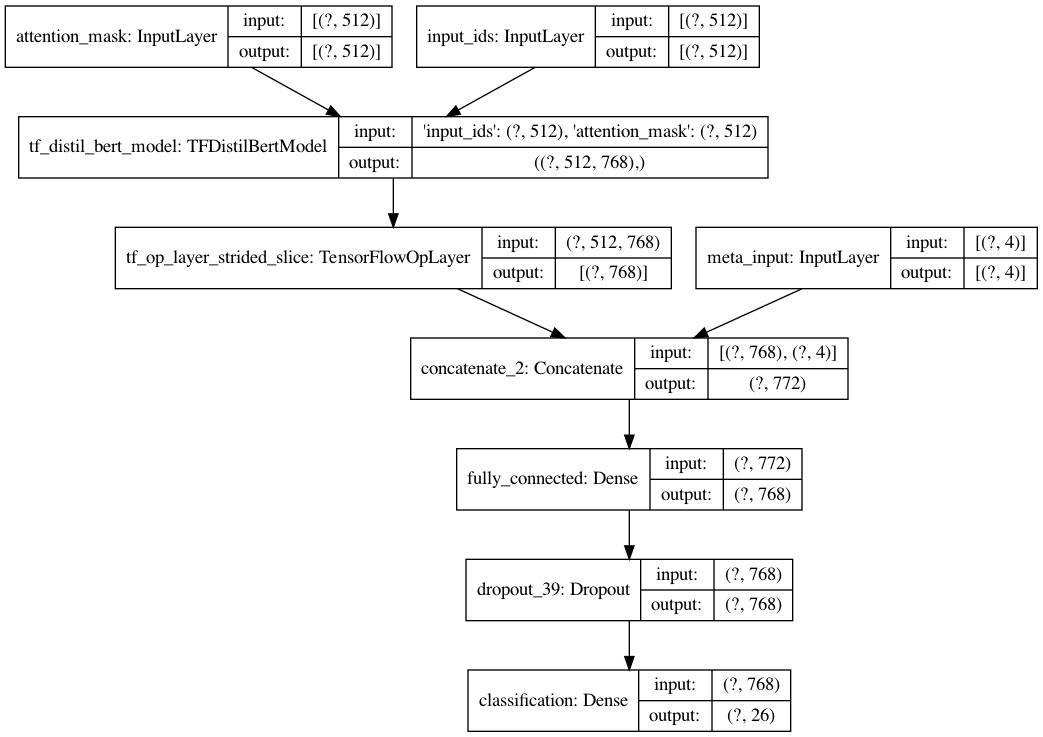
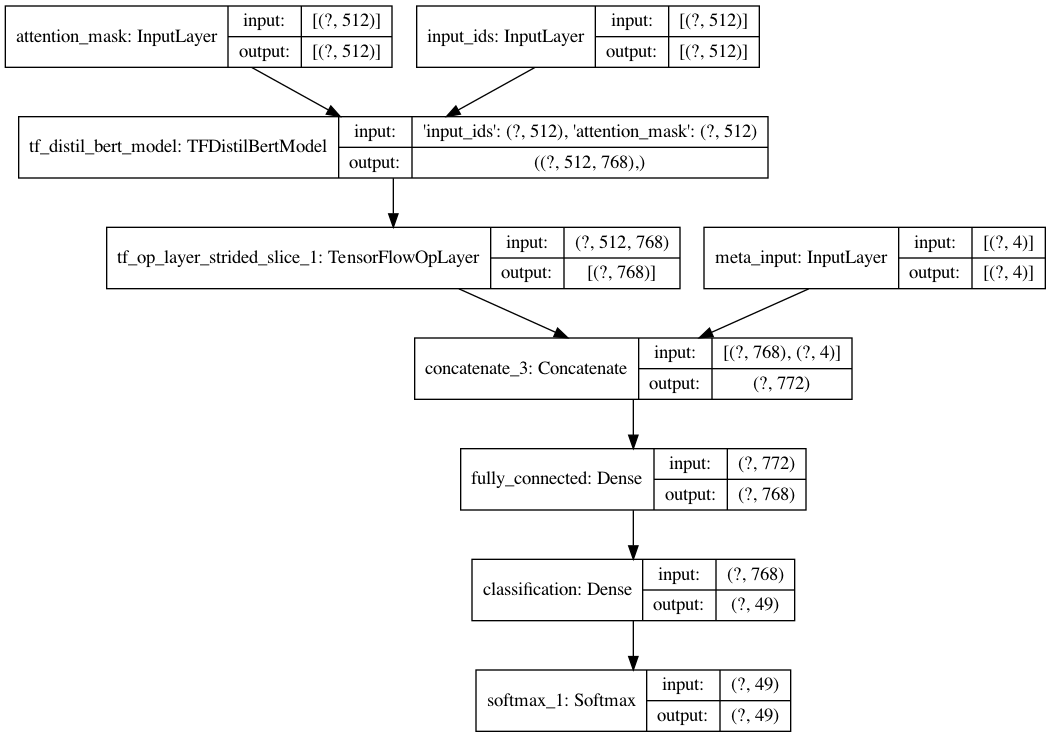
- Confirm that format of input dataset for `TFTrainer` is not correct. - Comment out Dropout layer for development - Increase the przie range classes to 50 - Add a self defined loss function for debugging

diff --git a/fine_tune_bert.py b/fine_tune_bert.py
@@ -11,6 +11,7 @@ import re
 from pprint import pprint
 from dataclasses import dataclass, field
 from dotenv import load_dotenv
+from typing import Union
 
 import numpy as np
 import pandas as pd
@@ -28,14 +29,19 @@ from transformers import (
 from sklearn.metrics import precision_recall_fscore_support
 
 from tc_data import TopCoder
-from model_tcpm_distilbert import TCPMDistilBertClassification
+from model_tcpm_distilbert import TCPMDistilBertClassification, build_tcpm_model_distilbert, custom_loss_fn
 
 load_dotenv()
 # MODEL_NAME = os.getenv('MODEL_NAME')
 # OUTPUT_DIR = os.getenv('OUTPUT_DIR')
 
-def build_dataset(tokenizer):
+TRAIN_BATCH_SIZE = 16
+TEST_BATCH_SIZE = 4
+
+def build_dataset(tokenizer, model_type='hf'):
     """ Build td.data.Dataset out of text and prize range."""
+    if model_type not in ('hf', 'tf'):
+        raise ValueError(f'Model type can only be one of {"hf", "tf"}. Receive "{model_type}".')
     # Load TopCoder data
     tc = TopCoder()
     tc_req = tc.get_filtered_requirements()
@@ -43,7 +49,7 @@ def build_dataset(tokenizer):
     metadata_cols = ['number_of_platforms', 'number_of_technologies', 'project_id', 'challenge_duration']
 
     # Convert float prize into categorical prize range
-    interval = np.linspace(0, 3000, 31)[:-1]
+    interval = np.linspace(0, 2500, 51)[:-1] # this will be modified manuanly when the dataset is changed
     tc_prz_range = tc_meta['total_prize'].apply(lambda prz: np.searchsorted(interval, prz, side='right') - 1)
     tc_prz_range.name = 'prize_cat'
 
@@ -55,7 +61,7 @@ def build_dataset(tokenizer):
         ], axis=1)
 
     dataset_size = len(req_prz_df)
-    num_labels = len(req_prz_df['prize_cat'].unique())
+    num_labels = len(req_prz_df['prize_cat'].unique()) + 1
 
     # batched encode the str to `input_ids` and `attention_mask`
     batched_encoded = tokenizer(req_prz_df['requirement'].to_list(), padding='max_length', truncation=True)
@@ -67,15 +73,19 @@ def build_dataset(tokenizer):
         req_prz_df['prize_cat'].iloc[i]
         ) for i in range(len(req_prz_df))]
 
-    input_names = tuple(batched_encoded.keys())
-    def gen():
+    def gen_hf():
         """ generator used in `tf.data.Dataset.from_generator`."""
         for encoded_str, metadata, label in features:
             yield (encoded_str, metadata), label
 
-    return (
-        tf.data.Dataset.from_generator(
-            gen,
+    def gen_tf():
+        """ generator used in `tf.data.Dataset.from_generator`."""
+        for encoded_str, metadata, label in features:
+            yield dict(**encoded_str, meta_input=metadata), label # NOTE: it's import the key if named "meta_input" to match the input_layer's name in the model
+
+    if model_type == 'hf':
+        dataset = tf.data.Dataset.from_generator(
+            gen_hf,
             (
                 ({k: tf.int32 for k in batched_encoded}, tf.float32),
                 tf.int32
@@ -84,7 +94,22 @@ def build_dataset(tokenizer):
                 ({k: tf.TensorShape([512]) for k in batched_encoded}, tf.TensorShape([4])),
                 tf.TensorShape([])
                 )
-        ),
+        )
+    else:
+        dataset = tf.data.Dataset.from_generator(
+            gen_tf,
+            (
+                dict(**{k: tf.int32 for k in batched_encoded}, meta_input=tf.float32),
+                tf.int32
+                ),
+            (
+                dict(**{k: tf.TensorShape([512]) for k in batched_encoded}, meta_input=tf.TensorShape([4])),
+                tf.TensorShape([])
+                )
+        )
+
+    return (
+        dataset,
         dataset_size,
         num_labels
     )
@@ -119,10 +144,13 @@ def finetune_with_tftrainer():
     training_args = TFTrainingArguments(
         output_dir=os.getenv('OUTPUT_DIR'),
         logging_dir=os.getenv('OUTPUT_DIR'),
+        logging_first_step=True,
+        logging_steps=1,
         overwrite_output_dir=True,
         do_train=True,
         do_eval=True,
         learning_rate=2e-5,
+        debug=True
         )
 
     with training_args.strategy.scope():
@@ -131,8 +159,11 @@ def finetune_with_tftrainer():
 
     # shuffle and split train/test tasks manuanly
     dataset = dataset.shuffle(dataset_size)
-    train_size, test_size = int(dataset_size * (4 / 5)), dataset_size - int(dataset_size * (4 / 5)) # 8-2 split
-    train_data, test_data = dataset.take(train_size), dataset.skip(train_size)
+    train_size = int(dataset_size * (4 / 5))
+    # test_size = dataset_size - train_size # didn't use so commented out.
+
+    train_data = dataset.take(train_size)#.batch(TRAIN_BATCH_SIZE)
+    test_data = dataset.skip(train_size)#.batch(TEST_BATCH_SIZE)
 
     trainer = TFTrainer(
         model=model,
@@ -141,6 +172,26 @@ def finetune_with_tftrainer():
         eval_dataset=test_data,
         compute_metrics=compute_metrics
     )
+
+    print('Sample training data:')
+    for i in train_data.take(2):
+        print(f'Input #{i}:')
+        pprint(i[0])
+        print(f'Target #{i}:')
+        pprint(i[1])
+
+    print('Sample test data:')
+    for i in train_data.take(2):
+        print(f'Input #{i}:')
+        pprint(i[0])
+        print(f'Output #{i}:')
+        pprint(i[1])
+
+    print('TF Trainer args:')
+    pprint(training_args)
+    print('TCPM Model config:')
+    pprint(config)
+    print('Trainning start..')
 
     # Train the model
     trainer.train()
@@ -153,6 +204,53 @@ def finetune_with_tftrainer():
     with open(os.path.join(os.getenv('OUTPUT_DIR'), 'eval_results.json'), 'w') as fwrite:
         json.dump(result, fwrite, indent=4)
 
+def finetune_tf_function():
+    """ Fine tune functional api."""
+    tokenizer = AutoTokenizer.from_pretrained(os.getenv('MODEL_NAME'))
+
+    # Get data for fine-tuning
+    dataset, dataset_size, num_labels = build_dataset(tokenizer)
+    # shuffle and split train/test tasks manuanly
+    dataset = dataset.shuffle(dataset_size)
+    train_size = int(dataset_size * (4 / 5))
+    # test_size = dataset_size - train_size # didn't use so commented out.
+    train_data = dataset.take(train_size).batch(TRAIN_BATCH_SIZE)
+    test_data = dataset.skip(train_size).batch(TEST_BATCH_SIZE)
+
+    print('Sample training data:')
+    for i in train_data.take(2):
+        print('Input: ', end='')
+        pprint(i[0])
+        print('Target: ', end='')
+        pprint(i[1])
+
+    print('Sample test data:')
+    for i in train_data.take(2):
+        print('Input: ', end='')
+        pprint(i[0])
+        print('Output: ', end='')
+        pprint(i[1])
+
+    config = AutoConfig.from_pretrained(os.getenv('MODEL_NAME'), num_labels=num_labels)
+    distilbert_model = TFAutoModel.from_pretrained(os.getenv('MODEL_NAME'), config=config)
+
+    model = build_tcpm_model_distilbert(distilbert_model=distilbert_model, config=config)
+
+    optimizer = tf.keras.optimizers.Adam(learning_rate=3e-5)
+    loss = tf.keras.losses.SparseCategoricalCrossentropy(from_logits=True)
+    metrics = [tf.keras.metrics.SparseCategoricalCrossentropy(from_logits=True), 'accuracy']
+    model.compile(optimizer=optimizer, loss=loss, metrics=metrics)
+
+    # train the model
+    train_history = model.fit(train_data, epochs=2)
+    print('Training finish:')
+    pprint(train_history)
+    # evaluate the model
+    loss, accuracy = model.evaluate(test_data)
+    print('Test result:')
+    print(f'Loss: {loss}')
+    print(f'Accuracy: {accuracy}')
+
 if __name__ == "__main__":
-    # finetune_with_native_tf()
-    finetune_with_tftrainer()
+    # finetune_with_tftrainer()
+    finetune_tf_function()

diff --git a/model_tcpm_distilbert.py b/model_tcpm_distilbert.py
@@ -18,9 +18,19 @@ from transformers import (
 from transformers.modeling_tf_utils import (
     TFSequenceClassificationLoss,
     get_initializer,
+    shape_list
 )
 
 DUMMY_META = tf.cast(tf.constant(np.random.randint(1, 1000, (3, 4))), tf.float64)
+
+def custom_loss_fn(y_true, y_pred):
+    """ A custom loss computation for debugging"""
+    print('y_true: ', tf.cast(y_true, tf.int32))
+    print('y_pred: ', tf.cast(y_pred, tf.float32))
+    # one_hot_positions = tf.one_hot(y_true, shape_list(y_pred)[1])
+    one_hot_positions = tf.one_hot(tf.cast(y_true, tf.int32), shape_list(y_pred)[1])
+    loss = tf.nn.softmax_cross_entropy_with_logits(labels=one_hot_positions, logits=y_pred)
+    return tf.reduce_mean(loss)
 
 def build_tcpm_model_distilbert(distilbert_model: TFDistilBertModel, config: AutoConfig):
     """ Build TopCoder Pricing Model(TCPM) using tensorflow functional api
@@ -37,7 +47,8 @@ def build_tcpm_model_distilbert(distilbert_model: TFDistilBertModel, config: Aut
         name='fully_connected'
     )
     dropout_layer = tf.keras.layers.Dropout(config.seq_classif_dropout)
-    classification = tf.keras.layers.Dense(num_labels, name='classification')
+    classification = tf.keras.layers.Dense(config.num_labels, name='classification')
+    # softmax_layer = tf.keras.layers.Softmax()
 
     # build (distil)bert model pipeline
     distilbert_input = {k: tf.keras.layers.Input(shape=(512,), dtype=tf.int32, name=k) for k in ('input_ids', 'attention_mask')} # there probably is a better way to get the encoded keys but it works for now
@@ -51,10 +62,11 @@ def build_tcpm_model_distilbert(distilbert_model: TFDistilBertModel, config: Aut
     # continue forward to the fully connected layer
     concat_layer = tf.keras.layers.concatenate([pooled_output, meta_input])
     x = fully_connected_layer(concat_layer)
-    x = dropout_layer(x)
+    # x = dropout_layer(x)
     output = classification(x)
+    # output = softmax_layer(output)
 
-    tcpm_model = tf.keras.Model(inputs=[distil_bert_input, meta_input], outputs=output)
+    tcpm_model = tf.keras.Model(inputs=[distilbert_input, meta_input], outputs=output)
     return tcpm_model
 
 class TCPMDistilBertClassification(TFDistilBertPreTrainedModel, TFSequenceClassificationLoss):
@@ -92,13 +104,13 @@ class TCPMDistilBertClassification(TFDistilBertPreTrainedModel, TFSequenceClassi
         hidden_state = distilbert_output[0] # (bs, seq_len, dim)
 
         # append metadata after the bert output embeddings
-        pooled_output = hidden_state[:, 0] # (bs, dim)
+        pooled_output = hidden_state[:, 0] # (bs, dim) gen sentence embedding == embedding of '[CLS]'
         metadata_output = self.metadata_inputs(metadata_inputs)
         concat_output = tf.keras.layers.concatenate([pooled_output, metadata_output])
 
         # continue forward
         x = self.fully_connected(concat_output)
-        x = self.dropout(x, training=training)
+        # x = self.dropout(x, training=training)
         logits = self.classifier(x)
 
         outputs = (logits,) + distilbert_output[1:] # copy-paste from original impolementation
